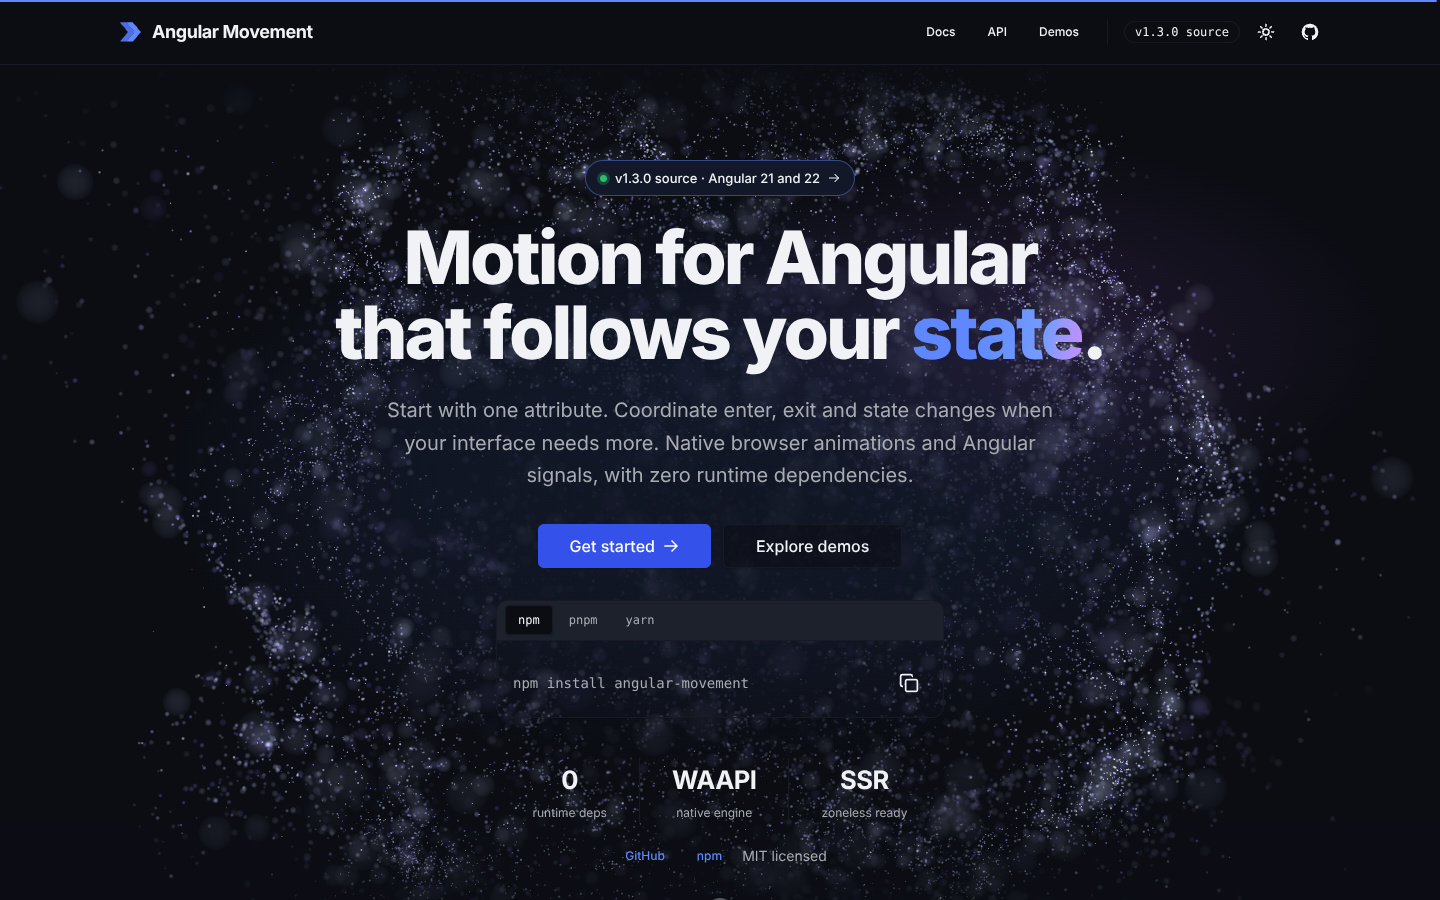
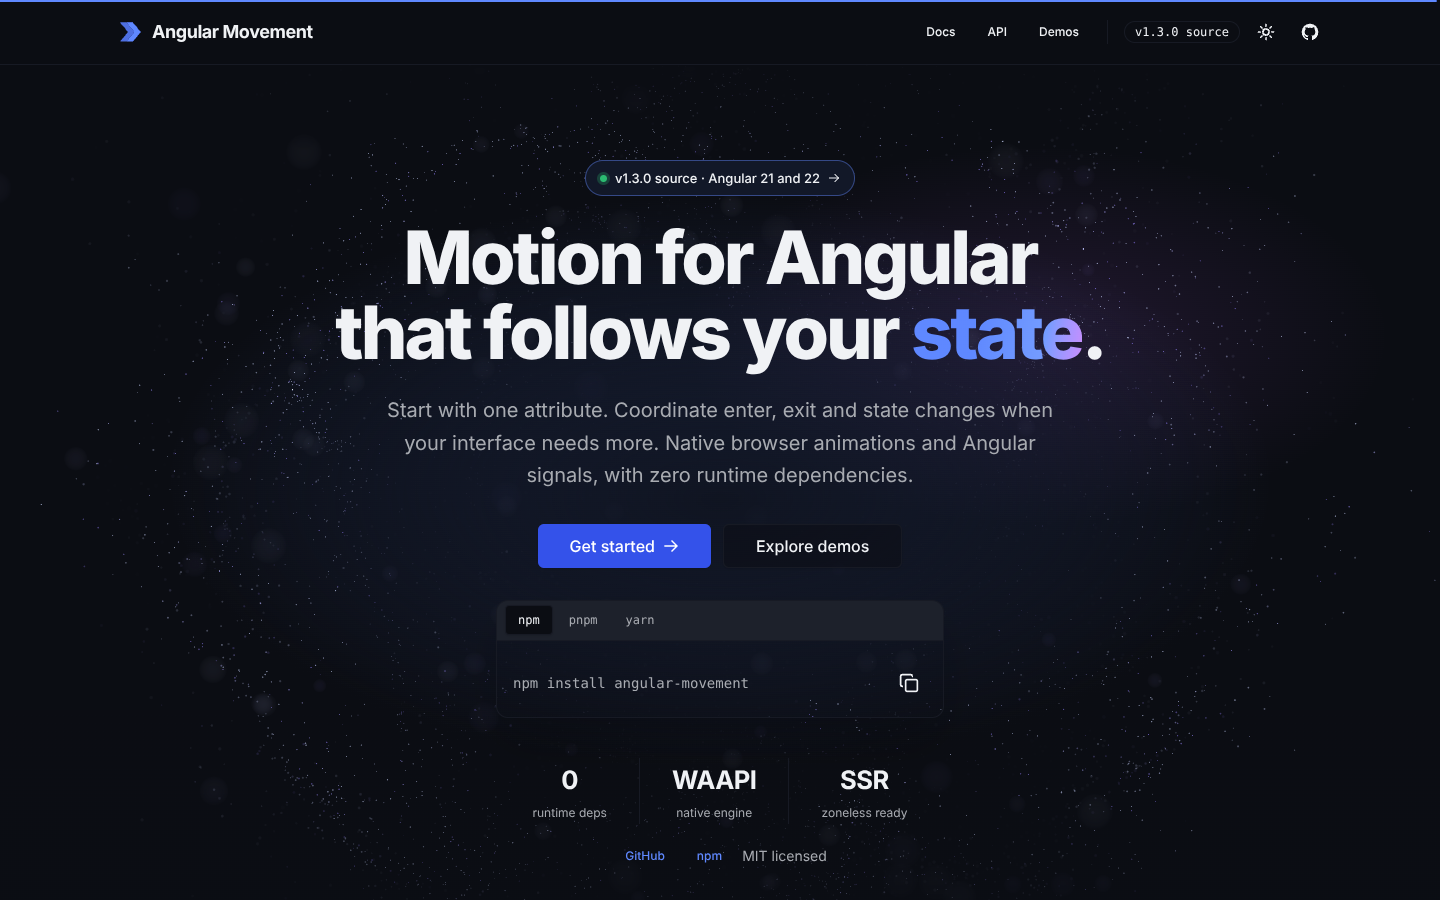
fix(site): calm the hero particle field and drop the scroll cue
Fewer, finer points (10k desktop / 4k compact), no twinkle, a rare faint orb
and a slower flow drawn at up to 60 draws/s instead of 24, so the sphere reads
smooth instead of grainy. The scroll-cue icon is removed.

Claude-Session: https://claude.ai/code/session_0164JbCv1W4MjexasdGUvB2L

diff --git a/src/app/pages/home/sections/hero/hero-flow-renderer.ts b/src/app/pages/home/sections/hero/hero-flow-renderer.ts
@@ -1,6 +1,6 @@
 /**
  * Depth-of-field particle sphere for the hero: a curl-noise shell folded by fractal octaves,
- * sharp sparkling dust on the focal rim and a few soft bokeh orbs in front. A faithful, dependency-free take on the reference
+ * fine steady dust on the focal rim, with everything out of focus fading away. A faithful, dependency-free take on the reference
  * portfolio's Three.js scene — one draw call, no render targets, no simulation state (the flow
  * is a pure function of seed + time, so positions are computed per vertex).
  */
@@ -127,13 +127,13 @@ mat3 rotateX(float a) {
 }
 
 void main() {
-  float t = uTime * 0.11;
+  float t = uTime * 0.05;
   vec3 seed = aSeed.xyz;
   float rnd = aSeed.w;
 
   // The reference sphere: curl noise of a point is a unit direction, so particles live on a
   // shell; a fractal octave stack folds that shell into filaments, and a slow noise blend
-  // breathes between the two so the surface never settles.
+  // breathes between the two so the surface drifts instead of settling.
   vec3 shell = curlNoise(seed * CURL_FREQ + t);
   vec3 folded = shell;
   folded += curlNoise(folded * CURL_FREQ * 2.0) * 0.5;
@@ -142,7 +142,7 @@ void main() {
   vec3 p = mix(shell, folded, snoise(shell + t)) * RADIUS;
 
   // A slow turntable plus a pointer tilt: the volume reads as 3D, the hero copy never moves.
-  p = rotateX(-uPointer.y * 0.28) * rotateY(uTime * 0.035 + uPointer.x * 0.42) * p;
+  p = rotateX(-uPointer.y * 0.22) * rotateY(uTime * 0.02 + uPointer.x * 0.32) * p;
 
   vec3 view = vec3(p.x, p.y, p.z - CAM_DIST);
   float dist = max(-view.z, 0.4);
@@ -153,20 +153,19 @@ void main() {
   ndc.x /= uAspect;
   gl_Position = vec4(ndc, 0.0, 1.0);
 
-  // Fine sharp dust (~96%) and a few soft bokeh orbs drifting in front of the copy (~4%).
-  float bokeh = step(0.96, fract(rnd * 7.13));
+  // Calm by design: fine, steady dust (no twinkle) and a rare, very faint out-of-focus orb.
+  float bokeh = step(0.985, fract(rnd * 7.13));
+  float base = mix(1.1 + rnd * 1.1, 10.0 + rnd * 12.0, bokeh);
+  float size = base * (1.0 + dof * mix(0.35, 0.5, bokeh));
+  gl_PointSize = clamp(size * (FOCUS / dist), 1.0, 36.0);
 
-  float base = mix(1.2 + rnd * 1.6, 7.0 + rnd * 14.0, bokeh);
-  float size = base * (1.0 + dof * mix(1.1, 0.6, bokeh));
-  gl_PointSize = clamp(size * (FOCUS / dist), 1.0, 44.0);
-
-  // The rim sits in the focal plane and sparkles; front and back fall out of focus.
-  float band = exp(-dof * dof * mix(1.6, 0.3, bokeh));
-  float twinkle = 0.7 + 0.3 * sin(uTime * (1.2 + rnd * 2.4) + rnd * 40.0);
-  float alpha = mix(mix(0.035, 0.95, band) * twinkle, mix(0.012, 0.13, band), bokeh);
+  // Only the focal rim is bright; everything in front of or behind it falls away quickly,
+  // which is what keeps the field soft instead of grainy.
+  float band = exp(-dof * dof * mix(2.2, 0.35, bokeh));
+  float alpha = mix(mix(0.0, 0.85, band), mix(0.0, 0.05, band), bokeh);
 
   vAlpha = alpha;
-  vSoft = max(bokeh, smoothstep(0.3, 1.2, dof));
+  vSoft = max(bokeh, smoothstep(0.25, 1.0, dof));
   vTint = fract(rnd * 13.73);
 }
 `;
@@ -191,10 +190,11 @@ void main() {
 }
 `;
 
-export const HERO_PARTICLE_LIMIT = 22000;
+// Few, fine particles drawn every frame read as smooth; many coarse ones read as noise.
+export const HERO_PARTICLE_LIMIT = 10000;
 
 export function heroParticleCount(width: number): number {
-  return width < 768 ? 7500 : HERO_PARTICLE_LIMIT;
+  return width < 768 ? 4000 : HERO_PARTICLE_LIMIT;
 }
 
 export function heroBackingSize(width: number, height: number, deviceRatio: number) {

diff --git a/e2e/hero-flow.spec.ts b/e2e/hero-flow.spec.ts
@@ -139,7 +139,7 @@ test('organic hero draws a bounded field and supports theme changes and route cl
     .toBeGreaterThan(12);
   const sample = await metrics(page);
   expect(sample.requestedPerformanceGuard).toBe(true);
-  expect(Math.max(...sample.points)).toBeLessThanOrEqual(22000);
+  expect(Math.max(...sample.points)).toBeLessThanOrEqual(10000);
   const canvasSize = await field
     .locator('canvas')
     .evaluate((canvas) => ({ width: canvas.width, height: canvas.height }));
@@ -147,7 +147,8 @@ test('organic hero draws a bounded field and supports theme changes and route cl
   expect(canvasSize.height).toBeLessThanOrEqual(1000);
   const cadence = sample.times.slice(3);
   const seconds = (cadence.at(-1)! - cadence[0]) / 1000;
-  expect((cadence.length - 1) / seconds).toBeLessThanOrEqual(27);
+  // Capped at 60 draws/s (a 120 Hz display draws every other frame).
+  expect((cadence.length - 1) / seconds).toBeLessThanOrEqual(64);
   await info.attach('hero-draw-submission-sample', {
     body: JSON.stringify(sample),
     contentType: 'application/json',
@@ -259,7 +260,7 @@ test('compact screens use the smaller particle budget', async ({ page }) => {
   const field = await openField(page);
   await expect(field).toHaveAttribute('data-motion-state', 'running');
   await expect.poll(async () => (await metrics(page)).times.length).toBeGreaterThan(3);
-  expect(Math.max(...(await metrics(page)).points)).toBeLessThanOrEqual(7500);
+  expect(Math.max(...(await metrics(page)).points)).toBeLessThanOrEqual(4000);
 });
 
 for (const theme of ['dark', 'light']) {

diff --git a/src/app/pages/home/sections/hero/hero-flow.ts b/src/app/pages/home/sections/hero/hero-flow.ts
@@ -17,7 +17,9 @@ import { ThemeService } from '../../../../shared/theme.service';
 import { createHeroFlowRenderer, type HeroFlowRenderer } from './hero-flow-renderer';
 import { warmHeroGpu } from './hero-flow-warmup';
 
-const FRAME_INTERVAL = 1000 / 24;
+// 60 draws/s at most: slow motion only looks fluid when it is not sampled in steps. The
+// slack keeps a 60 Hz display on every frame and halves a 120 Hz one.
+const FRAME_INTERVAL = 1000 / 60 - 2;
 
 @Component({
   selector: 'app-hero-flow',
@@ -192,8 +194,8 @@ export class HeroFlow {
     if (delta >= FRAME_INTERVAL) {
       this.#elapsed += Math.min(delta, 100) / 1000;
       // Glide toward the pointer so the parallax feels weighted, not sticky.
-      this.#pointer.x += (this.#pointerTarget.x - this.#pointer.x) * 0.08;
-      this.#pointer.y += (this.#pointerTarget.y - this.#pointer.y) * 0.08;
+      this.#pointer.x += (this.#pointerTarget.x - this.#pointer.x) * 0.04;
+      this.#pointer.y += (this.#pointerTarget.y - this.#pointer.y) * 0.04;
       this.#renderer.draw(this.#elapsed, this.#dark, this.#pointer.x, this.#pointer.y);
       this.#lastDraw = now - (delta % FRAME_INTERVAL);
     }

diff --git a/src/app/pages/home/sections/hero/hero.ts b/src/app/pages/home/sections/hero/hero.ts
@@ -125,10 +125,6 @@ const STATS: readonly HeroStat[] = [
           </p>
         </div>
       </div>
-
-      <a href="#state-demo" class="hero-scroll-cue" aria-label="Scroll to the live example">
-        <span class="hero-scroll-wheel" aria-hidden="true"></span>
-      </a>
     </section>
   `,
   changeDetection: ChangeDetectionStrategy.OnPush,

diff --git a/src/app/pages/home/sections/hero/hero-flow-renderer.spec.ts b/src/app/pages/home/sections/hero/hero-flow-renderer.spec.ts
@@ -6,7 +6,7 @@ describe('hero rendering budget', () => {
     for (const width of [320, 390, 768, 1440, 1920, 7680]) {
       expect(heroParticleCount(width)).toBeLessThanOrEqual(HERO_PARTICLE_LIMIT);
     }
-    expect(HERO_PARTICLE_LIMIT).toBeLessThanOrEqual(22000);
+    expect(HERO_PARTICLE_LIMIT).toBeLessThanOrEqual(10000);
   });
 
   it.each([
